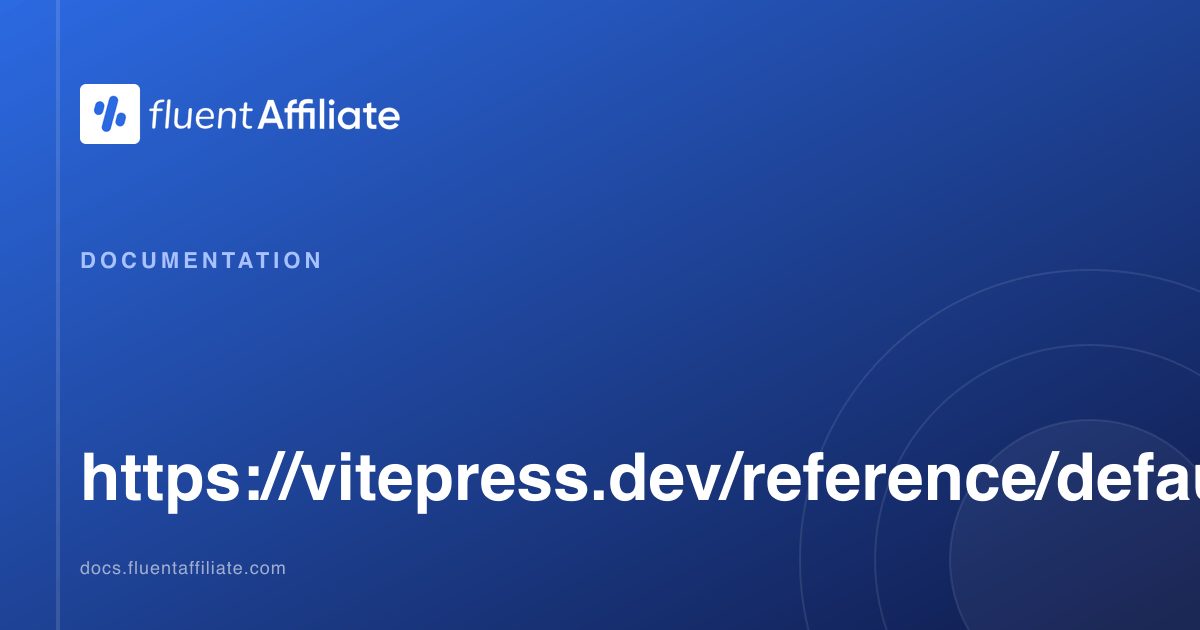
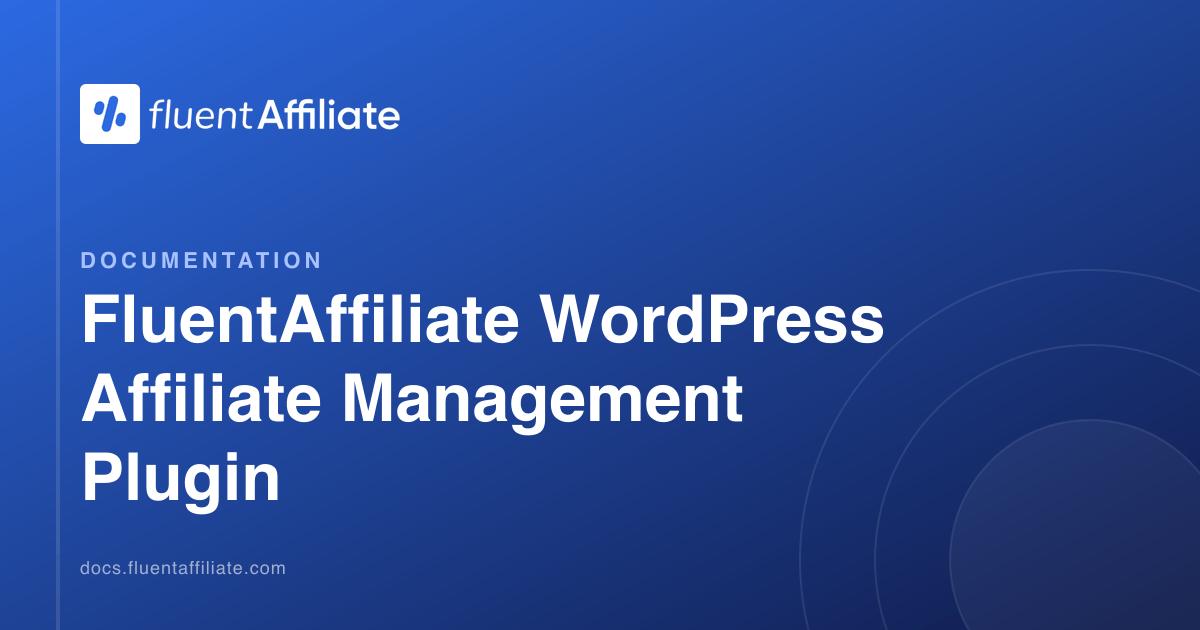
Include FluentCart and skip frontmatter titles
Add FluentCart to the list of supported store platforms, and prevent YAML frontmatter comments from being mistaken for page titles when generating featured images. Regenerate the featured index image.

Changed region(s): [[0.0617, 0.6937, 1.0, 0.8143], [0.0617, 0.4524, 0.74, 0.5429], [0.0617, 0.573, 0.6167, 0.6937]]

diff --git a/docs/getting-started/what-is-fluentaffiliate.md b/docs/getting-started/what-is-fluentaffiliate.md
@@ -32,7 +32,7 @@ All of this directly from your WordPress dashboard.
 
 FluentAffiliate is perfect for:
 
-* Store owners using [WooCommerce](/guide/integrations/woocommerce-integration-with-fluentaffiliate), [Easy Digital Downloads](/guide/integrations/easy-digital-downloads-integration-with-fluentaffiliate), [SureCart](/guide/integrations/surecart-integration-with-fluentaffiliate), or similar platforms
+* Store owners using [FluentCart](/guide/integrations/fluentcart-integration-with-fluentaffiliate), [WooCommerce](/guide/integrations/woocommerce-integration-with-fluentaffiliate), [Easy Digital Downloads](/guide/integrations/easy-digital-downloads-integration-with-fluentaffiliate), [SureCart](/guide/integrations/surecart-integration-with-fluentaffiliate), or similar platforms
 * Online course creators using [MemberPress](/guide/integrations/memberpress-integration-with-fluentaffiliate), and more
 * Anyone who wants to boost sales through referral marketing
 
